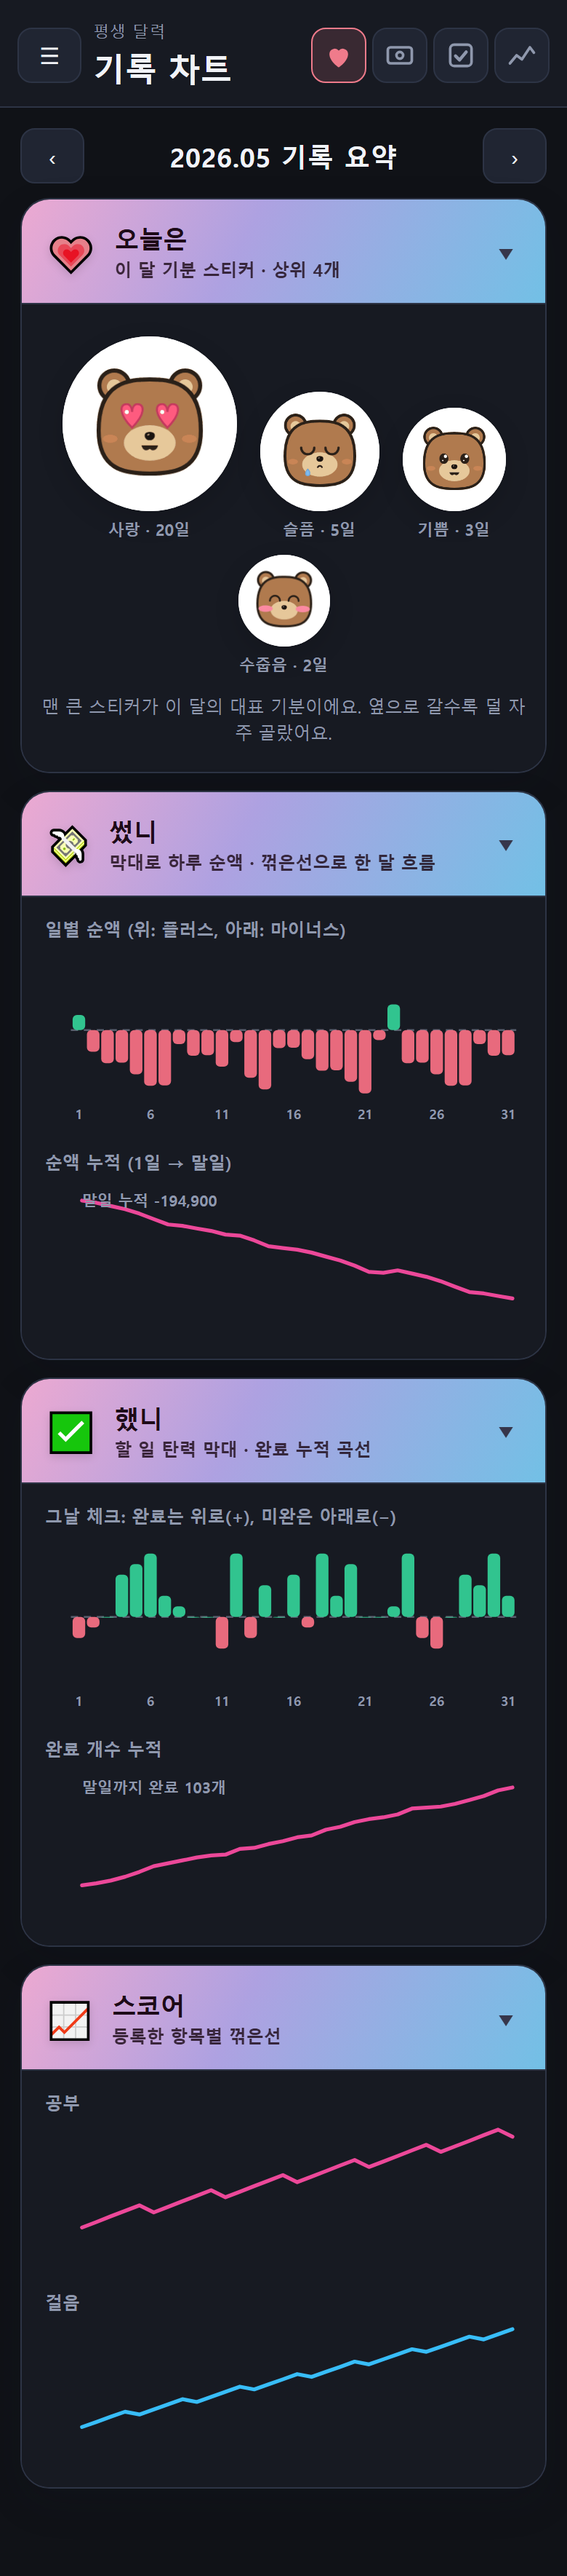
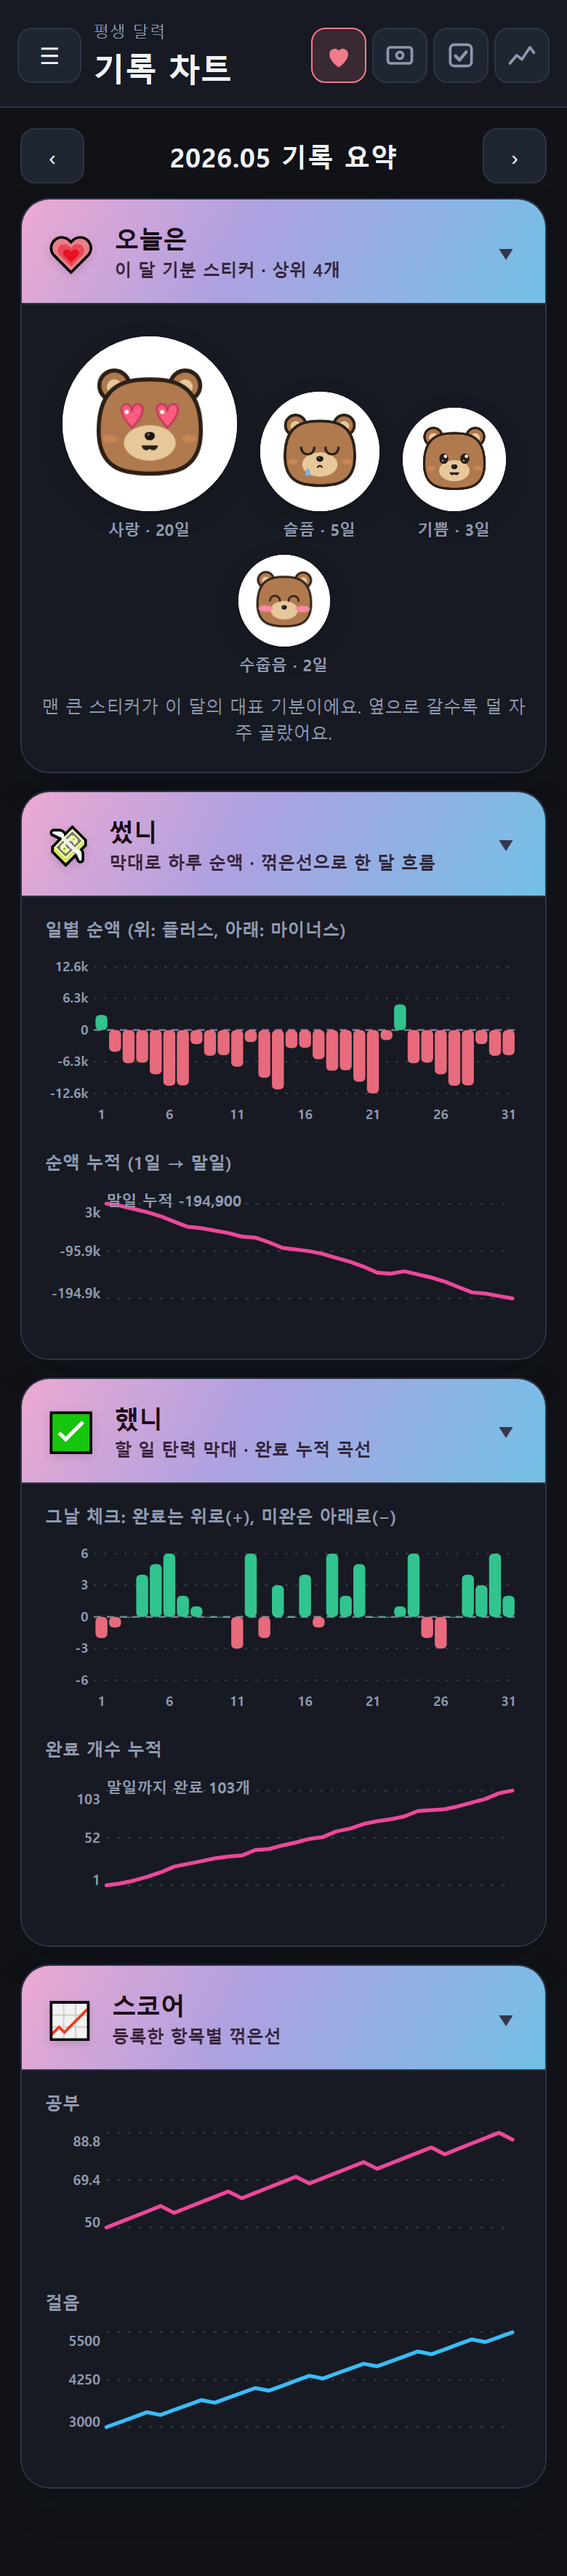
docs: add landscape mode section and refresh chart screenshots
- ?? ?? ??/?? ?? ?? (calendar_landscape, chart_monthly_landscape)
- ?? ??? y? ?? ?? ??, ?? ?? + ?? ?? ?? ??

diff --git a/README.md b/README.md
@@ -81,7 +81,7 @@
 ### 6. 기록 차트 (월별 요약)
 
 한 달 치 **기분 · 썼니 · 했니 · 스코어** 를 한 화면에서 볼 수 있는 통계 탭입니다.
-접었다 펼 수 있는 카드 형식으로, 기분은 상위 4개 이모티콘 GIF 크기로 한 달 요약을 보여 주고, 썼니/했니는 0을 기준으로 위·아래 막대 + 누적 꺾은선, 스코어는 항목별 꺾은선으로 표시됩니다.
+접었다 펼 수 있는 카드 형식으로, 기분은 상위 4개 이모티콘 GIF 크기로 한 달 요약을 보여 주고, 썼니/했니는 0을 기준으로 위·아래 막대 + 누적 꺾은선, 스코어는 항목별 꺾은선으로 표시됩니다. 각 차트 **좌측에는 최고/중간/0/최저 수치가 작게 표시**되어 한눈에 규모를 가늠할 수 있습니다.
 
 <p align="center">
   <img src="assets/chart_monthly_teen.png" alt="기록 차트 월별 통계 화면" width="320" />
@@ -90,6 +90,30 @@
 <p align="center">
   <img src="assets/release_drawer_chart.png" alt="기록 차트 메뉴" width="280" />
 </p>
+
+---
+
+## 가로 모드 (Landscape)
+
+휴대폰을 옆으로 돌리면 더 많은 정보가 한 화면에 들어옵니다.
+**달력 화면**은 좌측 캘린더 + 우측 카드 2단으로, **기록 차트**는 4개 카드가 **2×2 격자**로 펼쳐집니다.
+
+<p align="center">
+  <img src="assets/calendar_landscape.png" alt="가로 모드 달력 화면" width="520" />
+</p>
+
+<p align="center">
+  <img src="assets/chart_monthly_landscape.png" alt="가로 모드 기록 차트" width="520" />
+</p>
+
+### 회전 동작 설정
+
+설정 화면 상단의 **"화면 회전 허용"** 토글로 동작을 고를 수 있습니다.
+
+| 토글 | 동작 |
+|------|------|
+| **OFF (기본)** | 휴대폰을 돌려도 **항상 세로 모드** 유지 |
+| **ON** | 휴대폰 회전 따라 **세로 ↔ 가로 자동 전환** |
 
 ---
 
